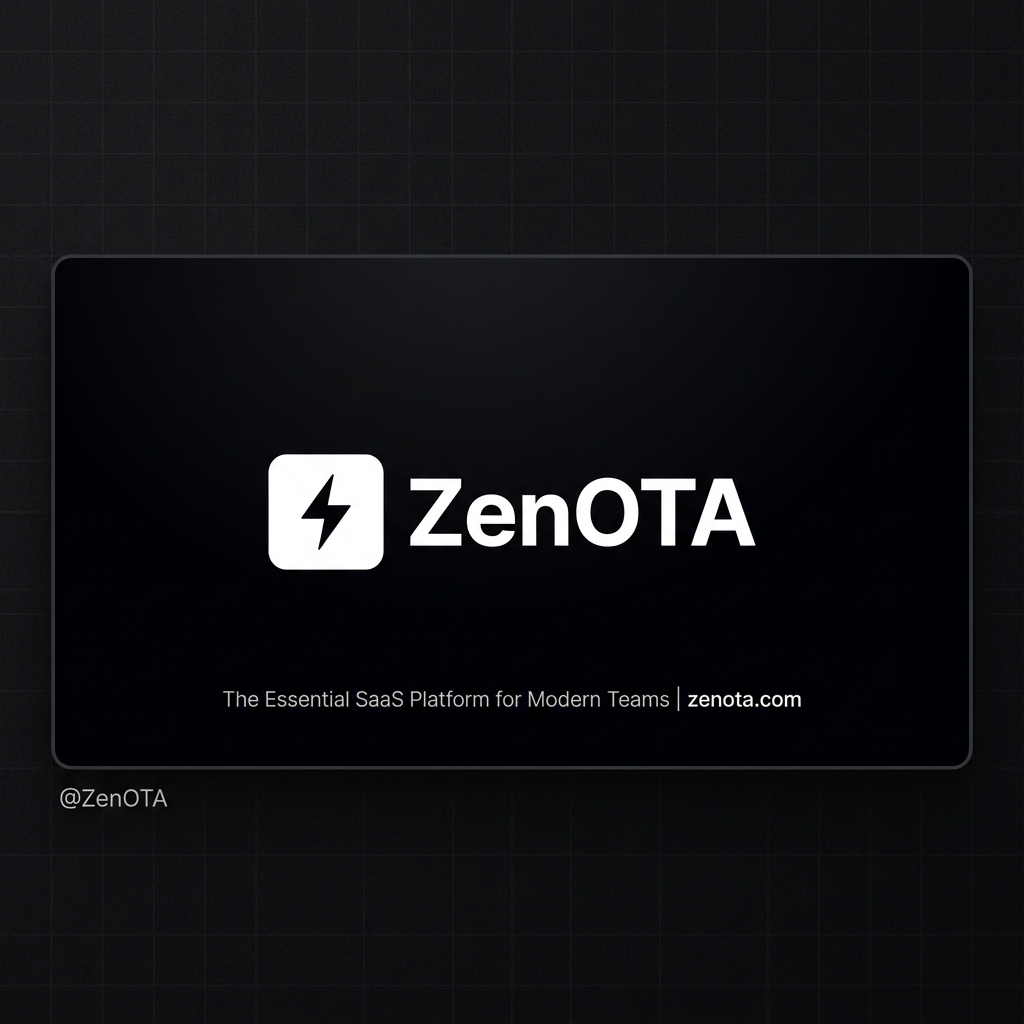
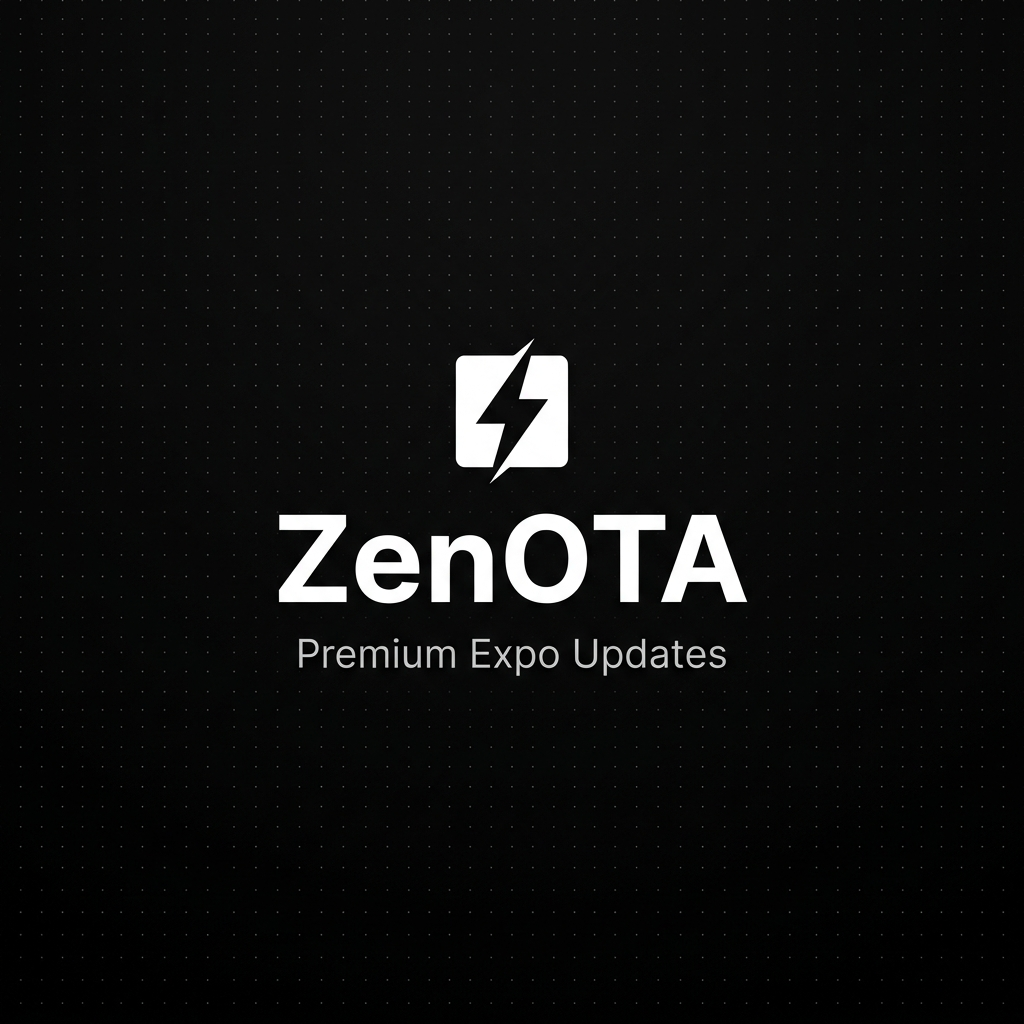
chore: update OG image dimensions and set site metadataBase

diff --git a/frontend/src/app/layout.tsx b/frontend/src/app/layout.tsx
@@ -16,6 +16,7 @@ const geistMono = Geist_Mono({
 });
 
 export const metadata: Metadata = {
+  metadataBase: new URL('https://zenota.diesestudio.com'),
   title: 'ZenOTA | Premium Expo Updates',
   description: 'Pro-grade OTA update management for React Native Expo apps.',
   icons: {
@@ -31,8 +32,8 @@ export const metadata: Metadata = {
     images: [
       {
         url: '/og-image.png',
-        width: 1200,
-        height: 630,
+        width: 1024,
+        height: 1024,
         alt: 'ZenOTA - Premium Expo Updates',
       },
     ],
